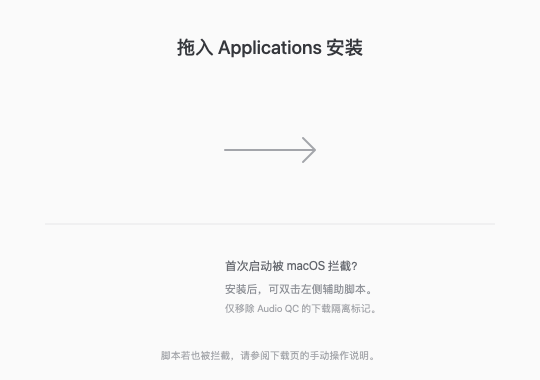
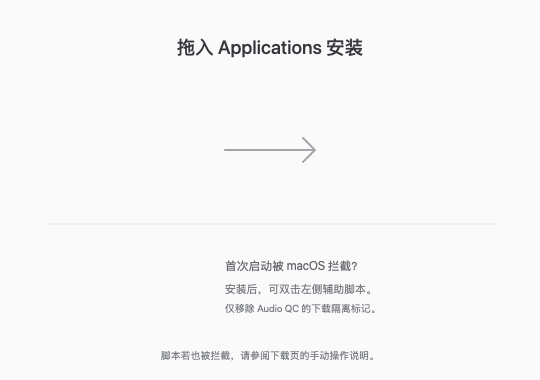
style: render Retina DMG background with clearer annotations

Changed region(s): [[0.2963, 0.9263, 0.6815, 0.9553], [0.563, 0.7816, 0.6815, 0.8395], [0.4148, 0.7816, 0.563, 0.8395]]

diff --git a/scripts/crop-dmg-background.swift b/scripts/crop-dmg-background.swift
@@ -4,10 +4,11 @@ import ImageIO
 // Quick Look pads rectangular SVG thumbnails to a square. Keep the SVG's top-left canvas.
 let source = URL(fileURLWithPath: CommandLine.arguments[1])
 let destination = URL(fileURLWithPath: CommandLine.arguments[2])
+let scale = Int(CommandLine.arguments[3]) ?? 1
 guard let input = CGImageSourceCreateWithURL(source as CFURL, nil),
       let image = CGImageSourceCreateImageAtIndex(input, 0, nil),
-      let cropped = image.cropping(to: CGRect(x: 0, y: 0, width: 540, height: 380)),
+      let cropped = image.cropping(to: CGRect(x: 0, y: 0, width: 540 * scale, height: 380 * scale)),
       let output = CGImageDestinationCreateWithURL(destination as CFURL, "public.png" as CFString, 1, nil)
 else { fatalError("Cannot render DMG background") }
-CGImageDestinationAddImage(output, cropped, nil)
+CGImageDestinationAddImage(output, cropped, [kCGImagePropertyDPIWidth: 72 * scale, kCGImagePropertyDPIHeight: 72 * scale] as CFDictionary)
 if !CGImageDestinationFinalize(output) { fatalError("Cannot save DMG background") }

diff --git a/packaging/assets/README.md b/packaging/assets/README.md
@@ -3,3 +3,5 @@
 `icon.png` 为 Audio QC 应用图标的 1024px 主资源，2026-10-18 使用 ImageGen 生成，采用黑白灰配色，意象为音频波形与校验标记。`icon.icns` 和 `icon.ico` 分别供 macOS 和 Windows 打包使用；开发版使用同一 PNG。
 
 `app-icon.svg` 为保留的旧版设计，不再覆盖当前图标。`scripts/render-dmg-background.mjs` 仅生成 DMG 背景。修改图标时应一并更新三种格式。
+
+DMG 背景包含 540×380 标准 PNG 和 1080×760 的 `dmg-background@2x.png`；dmg-builder 会自动合并为多分辨率 TIFF，使 Finder 在 Retina 屏幕上使用高清版本。两份由同一个 SVG 直接渲染，避免放大已有位图。
